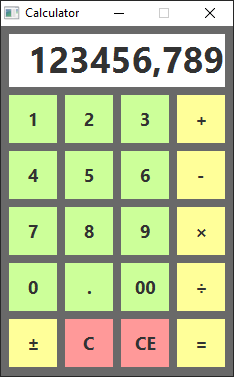
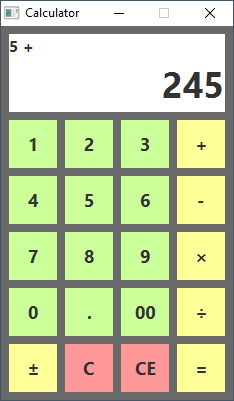
added memoryDisplay
upgraded version to 0.2

diff --git a/src/main/java/pl/jacob_the_liar/calculator/window/CalculatorApp.java b/src/main/java/pl/jacob_the_liar/calculator/window/CalculatorApp.java
@@ -31,6 +31,7 @@ public class CalculatorApp implements Window, Refresh {
             {"±", "s"}, {"C", "s"}, {"CE", "s"}, {"=", "s"}
             };
     private Label lblDisplay;
+    private Label lblMemDisplay;
     private Calculator calculator;
 
 
@@ -48,12 +49,13 @@ public class CalculatorApp implements Window, Refresh {
         VBox back = new VBox();
 
         back.getChildren().add(getSpace());
+        back.getChildren().add(getMemoryDisplay());
         back.getChildren().add(getDisplay());
         back.getChildren().add(getSpace());
         back.getChildren().add(getKeyboard());
         back.setBackground(GRAY.value());
 
-        Scene scene = new Scene(back, 222, 340);
+        Scene scene = new Scene(back, 222, 364);
         primaryStage.setScene(scene);
         primaryStage.show();
 
@@ -76,6 +78,25 @@ public class CalculatorApp implements Window, Refresh {
         keyboard.getChildren().add(keys);
 
         return keyboard;
+    }
+
+    private Node getMemoryDisplay() {
+        HBox box = new HBox();
+
+        box.getChildren().add(getSpace());
+
+        lblMemDisplay = new Label("123456 +");
+        lblMemDisplay.setMinWidth(216);
+
+        lblMemDisplay.setFont(Font.font("", FontWeight.BOLD, 16));
+//        lblDisplay.setTextAlignment(TextAlignment.RIGHT);
+//        lblDisplay.setAlignment(Pos.CENTER_RIGHT);
+        lblMemDisplay.setBackground(WHITE.value());
+
+        box.getChildren().add(lblMemDisplay);
+        box.getChildren().add(getSpace());
+
+        return box;
     }
 
     private Node getDisplay() {
@@ -123,5 +144,6 @@ public class CalculatorApp implements Window, Refresh {
     @Override
     public void refreshControls() {
         lblDisplay.setText(calculator.display());
+        lblMemDisplay.setText(calculator.memoryDisplay());
     }
 }

diff --git a/src/main/java/pl/jacob_the_liar/calculator/core/CalculatorImpl.java b/src/main/java/pl/jacob_the_liar/calculator/core/CalculatorImpl.java
@@ -8,7 +8,7 @@ public class CalculatorImpl implements Calculator, PressNumber, Operations {
     String disp = "0";
     String mem = "0";
 
-    char operation = 'x';
+    char operation = '=';
 
 
     @Override
@@ -25,6 +25,15 @@ public class CalculatorImpl implements Calculator, PressNumber, Operations {
             return "E";
         NumberFormat formatter = new DecimalFormat("0.#########");
         return formatter.format(Double.parseDouble(disp));
+    }
+
+    @Override
+    public String memoryDisplay(){
+        NumberFormat formatter = new DecimalFormat("0.#########");
+        String result = formatter.format(Double.parseDouble(mem));
+        result += " "+operation;
+
+        return result;
     }
 
     @Override
@@ -69,7 +78,7 @@ public class CalculatorImpl implements Calculator, PressNumber, Operations {
     @Override
     public void result() {
         doOperation();
-        operation = 'x';
+        operation = '=';
     }
 
     @Override
@@ -81,7 +90,7 @@ public class CalculatorImpl implements Calculator, PressNumber, Operations {
     public void clearEverything() {
         disp = "0";
         mem = "0";
-        operation = 'x';
+        operation = '=';
     }
 
     @Override

diff --git a/src/main/java/pl/jacob_the_liar/calculator/App.java b/src/main/java/pl/jacob_the_liar/calculator/App.java
@@ -9,14 +9,13 @@ public class App  extends Application
 {
     public static void main( String[] args )
     {
-        System.out.println( "Calculator ver 0.1" );
+        System.out.println( "Calculator ver 0.2" );
 
         Application.launch(args);
     }
 
     @Override
     public void start(Stage primaryStage) throws Exception {
-
 
         Window calc = new CalculatorApp(primaryStage);
         calc.show();

diff --git a/src/main/java/pl/jacob_the_liar/calculator/core/Calculator.java b/src/main/java/pl/jacob_the_liar/calculator/core/Calculator.java
@@ -4,6 +4,7 @@ public interface Calculator extends PressNumber {
 
         void pressNumber(Object number);
         String display();
+        String memoryDisplay();
         void add();
         void sub();
         void div();
